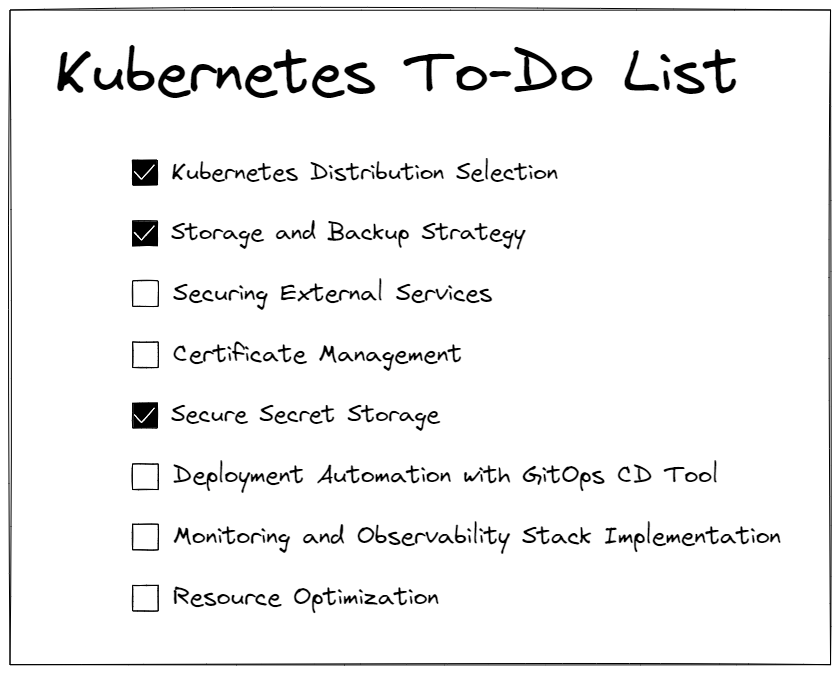
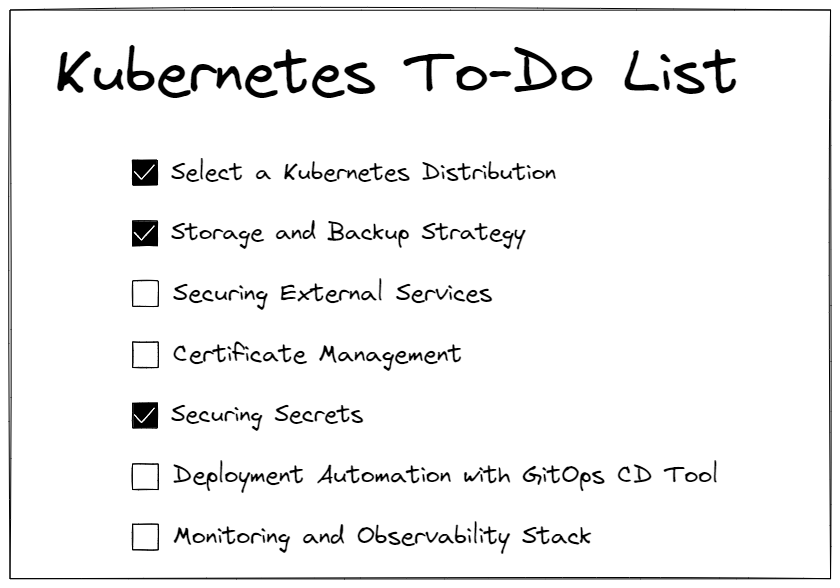
feat: finish yet-another-kubernetes-to-do-list

diff --git a/docs/blog/posts/202404-yet-another-kubernetes-to-do-list.md b/docs/blog/posts/202404-yet-another-kubernetes-to-do-list.md
@@ -1,0 +1,93 @@
+---
+
+## date
+
+2024-04-02
+
+## authors
+
+[alvsanand]
+categories:
+  - DevOps
+  - Datahub.local
+
+## draft
+
+true
+---
+# Yet Another Kubernetes To-Do List
+
+Ever noticed how easy it is to kickstart your app on Kubernetes locally? Just a couple of commands and boom – it's up and running! But let's face it, real-world setups are a whole different ball game.
+
+Take my [Datahub.local](https://datahub-local.alvsanand.com/) project, for example. It's not just a data platform; it's a whole ecosystem of things running on Kubernetes. I've also got monitoring, storage solutions, CI/CD pipelines and many more. So suddenly, The initial simplicity feels like a distant dream.
+
+![Kubernetes To-Do List](/img/kubernetes-to-do-list.jpg){ width="35%" align=left }
+
+## 1. Select a Kubernetes Distribution
+
+Choosing the right Kubernetes distribution is crucial, especially considering your specific needs and infrastructure requirements. Options range from full-fledged, self-managed distributions like vanilla Kubernetes to lightweight solutions tailored for low-end devices.
+
+- **Vanilla**: Ideal for environments where customization and control are paramount, [vanilla Kubernetes](https://kubernetes.io/) offers the flexibility to tailor the cluster to your exact specifications. However, it may require more manual configuration and maintenance efforts.
+- **Managed**: Platforms like [Google Kubernetes Engine (GKE)](https://cloud.google.com/kubernetes-engine), [Amazon Elastic Kubernetes Service (EKS)](https://aws.amazon.com/es/eks/), and [Microsoft Azure Kubernetes Service (AKS)](https://azure.microsoft.com/es-es/products/kubernetes-service/) provide fully managed Kubernetes clusters, abstracting away much of the underlying infrastructure management. They're great for teams looking to offload operational overhead and focus on application development.
+- **Enterprise**: Solutions like [Red Hat OpenShift](https://www.redhat.com/en/technologies/cloud-computing/openshift), [Rancher](https://www.rancher.com/) or [VMware Tanzu](https://www.vmware.com/products/vsphere/vsphere-with-tanzu.html) offer enterprise-grade features and support, making them suitable for organizations with complex deployment requirements and regulatory compliance needs.
+- **Lightweight**: For resource-constrained environments or low-end devices, lightweight Kubernetes distributions like [K3s](https://docs.k3s.io/) or [MicroK8s](https://microk8s.io/) are excellent choices. k3s is optimized for production workloads in resource-constrained environments, while MicroK8s provides a lightweight, easy-to-install Kubernetes for development and testing purposes. These distributions offer reduced resource overhead and simplified installation, making them ideal for edge computing or IoT deployments.
+
+Consider factors such as ease of deployment, scalability, support, and compatibility with your existing infrastructure when evaluating Kubernetes distributions. Choose the one that best fits your project requirements and long-term goals, ensuring a smooth and efficient Kubernetes deployment experience.
+
+## 2. Storage and Backup Strategy
+
+Now it's time to review storage and backup – the backbone of our data resilience. Now, when it comes to picking the right storage solutions, we've got some solid options on the table. **Longhorn** and **Rook/Ceph** are likely your best bets for storage services.
+
+Think of [Longhorn](https://longhorn.io/) as your go-to buddy for block storage. It's sleek, easy to use, and packs a punch when it comes to reliability. With features like built-in backup and restore capabilities, it's like having a safety net for your critical data.
+
+Now, if you're into distributed file systems, [Rook/Ceph](https://rook.io/) is the big name of the market. It's like having your own personal cloud storage solution right in your Kubernetes cluster including its own S3 compatible solution. Plus, with Rook's seamless integration with Kubernetes, setting up and managing Ceph clusters becomes a breeze.
+
+So, whether you're storing mission-critical databases or hosting media files for your next big app, Longhorn and Rook/Ceph have got you covered. Keep your data safe, keep it resilient.
+
+## 3. Securing External Services
+
+Alright, let's talk about locking down those external services trying to cozy up with your Kubernetes cluster. You don't want just anyone waltzing in and causing chaos, right?
+
+So, first things first, let's beef up that security. Consider using an Ingress controller with TLS termination. You are ensuring encrypted communication between your services and the outside world. Plus, it adds that extra layer of protection against eavesdroppers.
+
+Now, onto authentication – because not everyone should get access. [OAuth2 Proxy](https://oauth2-proxy.github.io/oauth2-proxy/) can be your best friend here. Think of them as the gatekeepers who verify everyone's credentials before they're allowed in. With an OAuth2 Proxy you can use providers like Google, Github, Keycloak or Dex, you can enforce user authentication and authorization policies, making sure only authorized users can interact with your services.
+
+But wait, there's more! Ever heard of [Cloudflare Tunnel](https://www.cloudflare.com/es-es/products/tunnel/)? It's like your service's secret agent, keeping it hidden from prying eyes on the internet. Instead of exposing your services directly, Cloudflare Tunnel acts as a secure conduit, routing traffic through Cloudflare's network without exposing your server's IP address.
+
+## 4. Certificate Management
+
+What about managing certificates in Kubernetes? [Cert-Manager](https://cert-manager.io/)'s got your back. It's like your personal assistant for all things TLS certificates. With Cert-Manager, you can automate the whole shebang – issuing, renewing, and revoking certificates – without breaking a sweat.
+
+Oh, and here's a pro tip: even for your local setups, consider using your own domain. Yeah, I know it sounds fancy, but trust me, it's worth it. It keeps things consistent across all environments, from local to production.
+
+## 5. Securing Secrets
+
+Keeping your sensitive data safe is like guarding the treasure chest of your app. With Kubernetes, you've got options aplenty for secret storage. You could start with the classic vanilla [Secrets](https://kubernetes.io/docs/concepts/configuration/secret/), where your secrets are stored in your cluster's etcd database. It gets the job done, but it's like hiding your keys under the doormat – not the most secure option out there.
+
+If you want to step up your game, consider [Sealed Secrets](https://sealed-secrets.netlify.app/). Think of them as secret messages locked tight with encryption, so even if someone snoops around, they can't make heads or tails of your precious data.
+
+Then there's [External Secrets](https://external-secrets.io/latest/), where you outsource secret management to specialized tools like HashiCorp Vault or AWS Secrets Manager. It's like having a super-secure vault guarded by dragons – nobody's getting in without the right keys.
+
+No matter which route you choose, make sure to encrypt your secrets at rest and in transit. Rotate them regularly like changing the combination on a safe, and you'll sleep soundly knowing your secrets are safe and sound.
+
+## 6. Deployment Automation with GitOps CD Tool
+
+Say goodbye to manual deployment headaches and hello to streamlined automation with GitOps Continuous Delivery (CD) tools like [Flux](https://fluxcd.io/) and [Argo CD](https://argo-cd.readthedocs.io/en/stable/). These tools take the hassle out of managing Kubernetes resources by syncing your cluster state with version-controlled Git repositories.
+
+With [Flux](https://fluxcd.io/), you can define your desired cluster state in Git and let Flux automatically apply those changes to your cluster, keeping everything in sync effortlessly. It's like having a trusty assistant who ensures your applications are always up-to-date without you lifting a finger.
+
+On the other hand, [Argo CD](https://argo-cd.readthedocs.io/en/stable/) provides a slick user interface for visualizing and managing your Kubernetes applications. Simply declare your desired state in Git, and Argo CD will continuously monitor your repository for changes, automatically applying them to your cluster. It's like having a personal Kubernetes concierge, always ready to cater to your deployment needs.
+
+Whether you prefer Flux's simplicity or Argo CD's user-friendly interface, embracing GitOps principles with these CD tools will revolutionize your deployment workflows, making them smoother, more reliable, and ultimately more enjoyable.
+
+## 7. Monitoring and Observability Stack
+
+Next thing you want to keep a close eye on is what's happening in your Kubernetes cluster, right?
+
+First up, we've got the [kube-prometheus-stack](https://github.com/prometheus-operator/kube-prometheus). It's like your Swiss Army knife for Kubernetes monitoring. With [Prometheus](https://prometheus.io/) for metrics and [Grafana](https://grafana.com/) for visualization, it's a powerhouse combo that gives you all the insights you need into your cluster's health and performance. Besides, you can install [Loki](https://github.com/grafana/loki) for logs aggregation.
+
+But hey, maybe you're not into managing all that yourself. No worries! There are some fantastic SaaS options like [Datadog](https://www.datadoghq.com/) and [Dynatrace](https://www.dynatrace.com/). These guys handle all the heavy lifting for you, giving you top-notch monitoring and observability without the hassle of managing your own stack.
+
+Plus, there are tools like [Robusta](https://home.robusta.dev/) which can help automate essential SRE actions, saving you time and headaches.
+
+So whether you choose one or another depends on free cost or prefer the convenience of a managed service, there's something out there to suit your monitoring needs.
